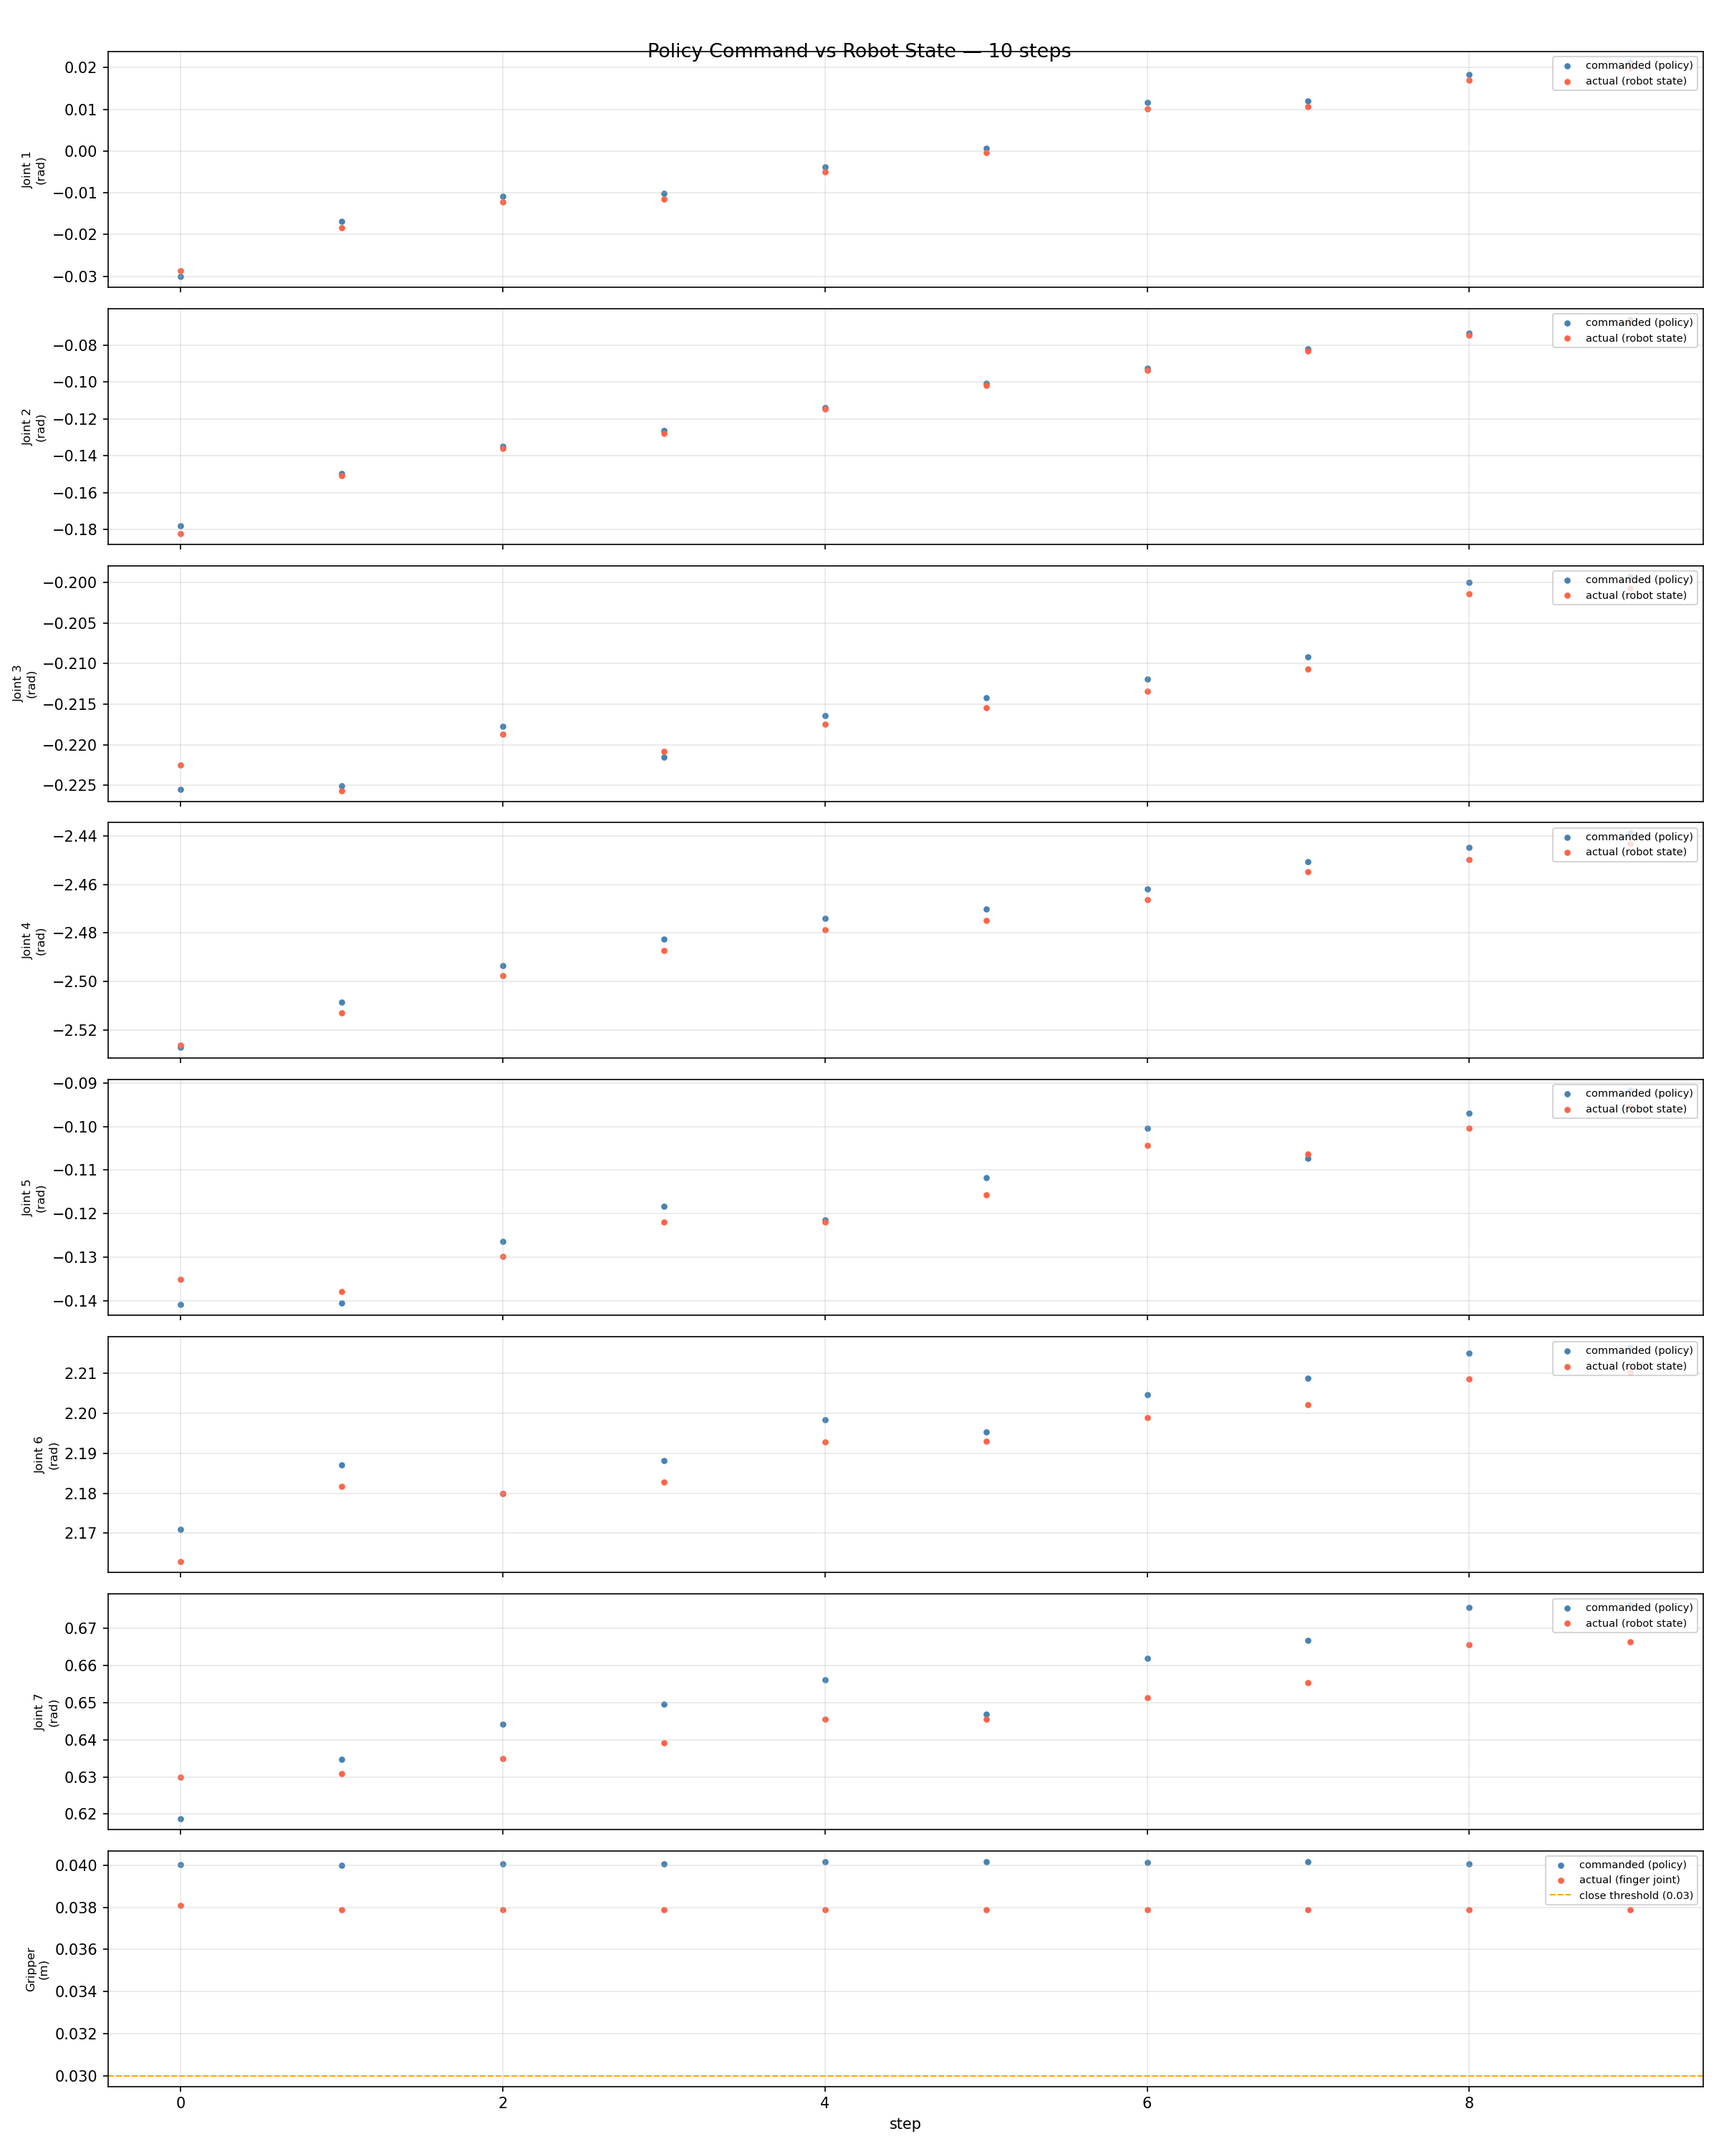
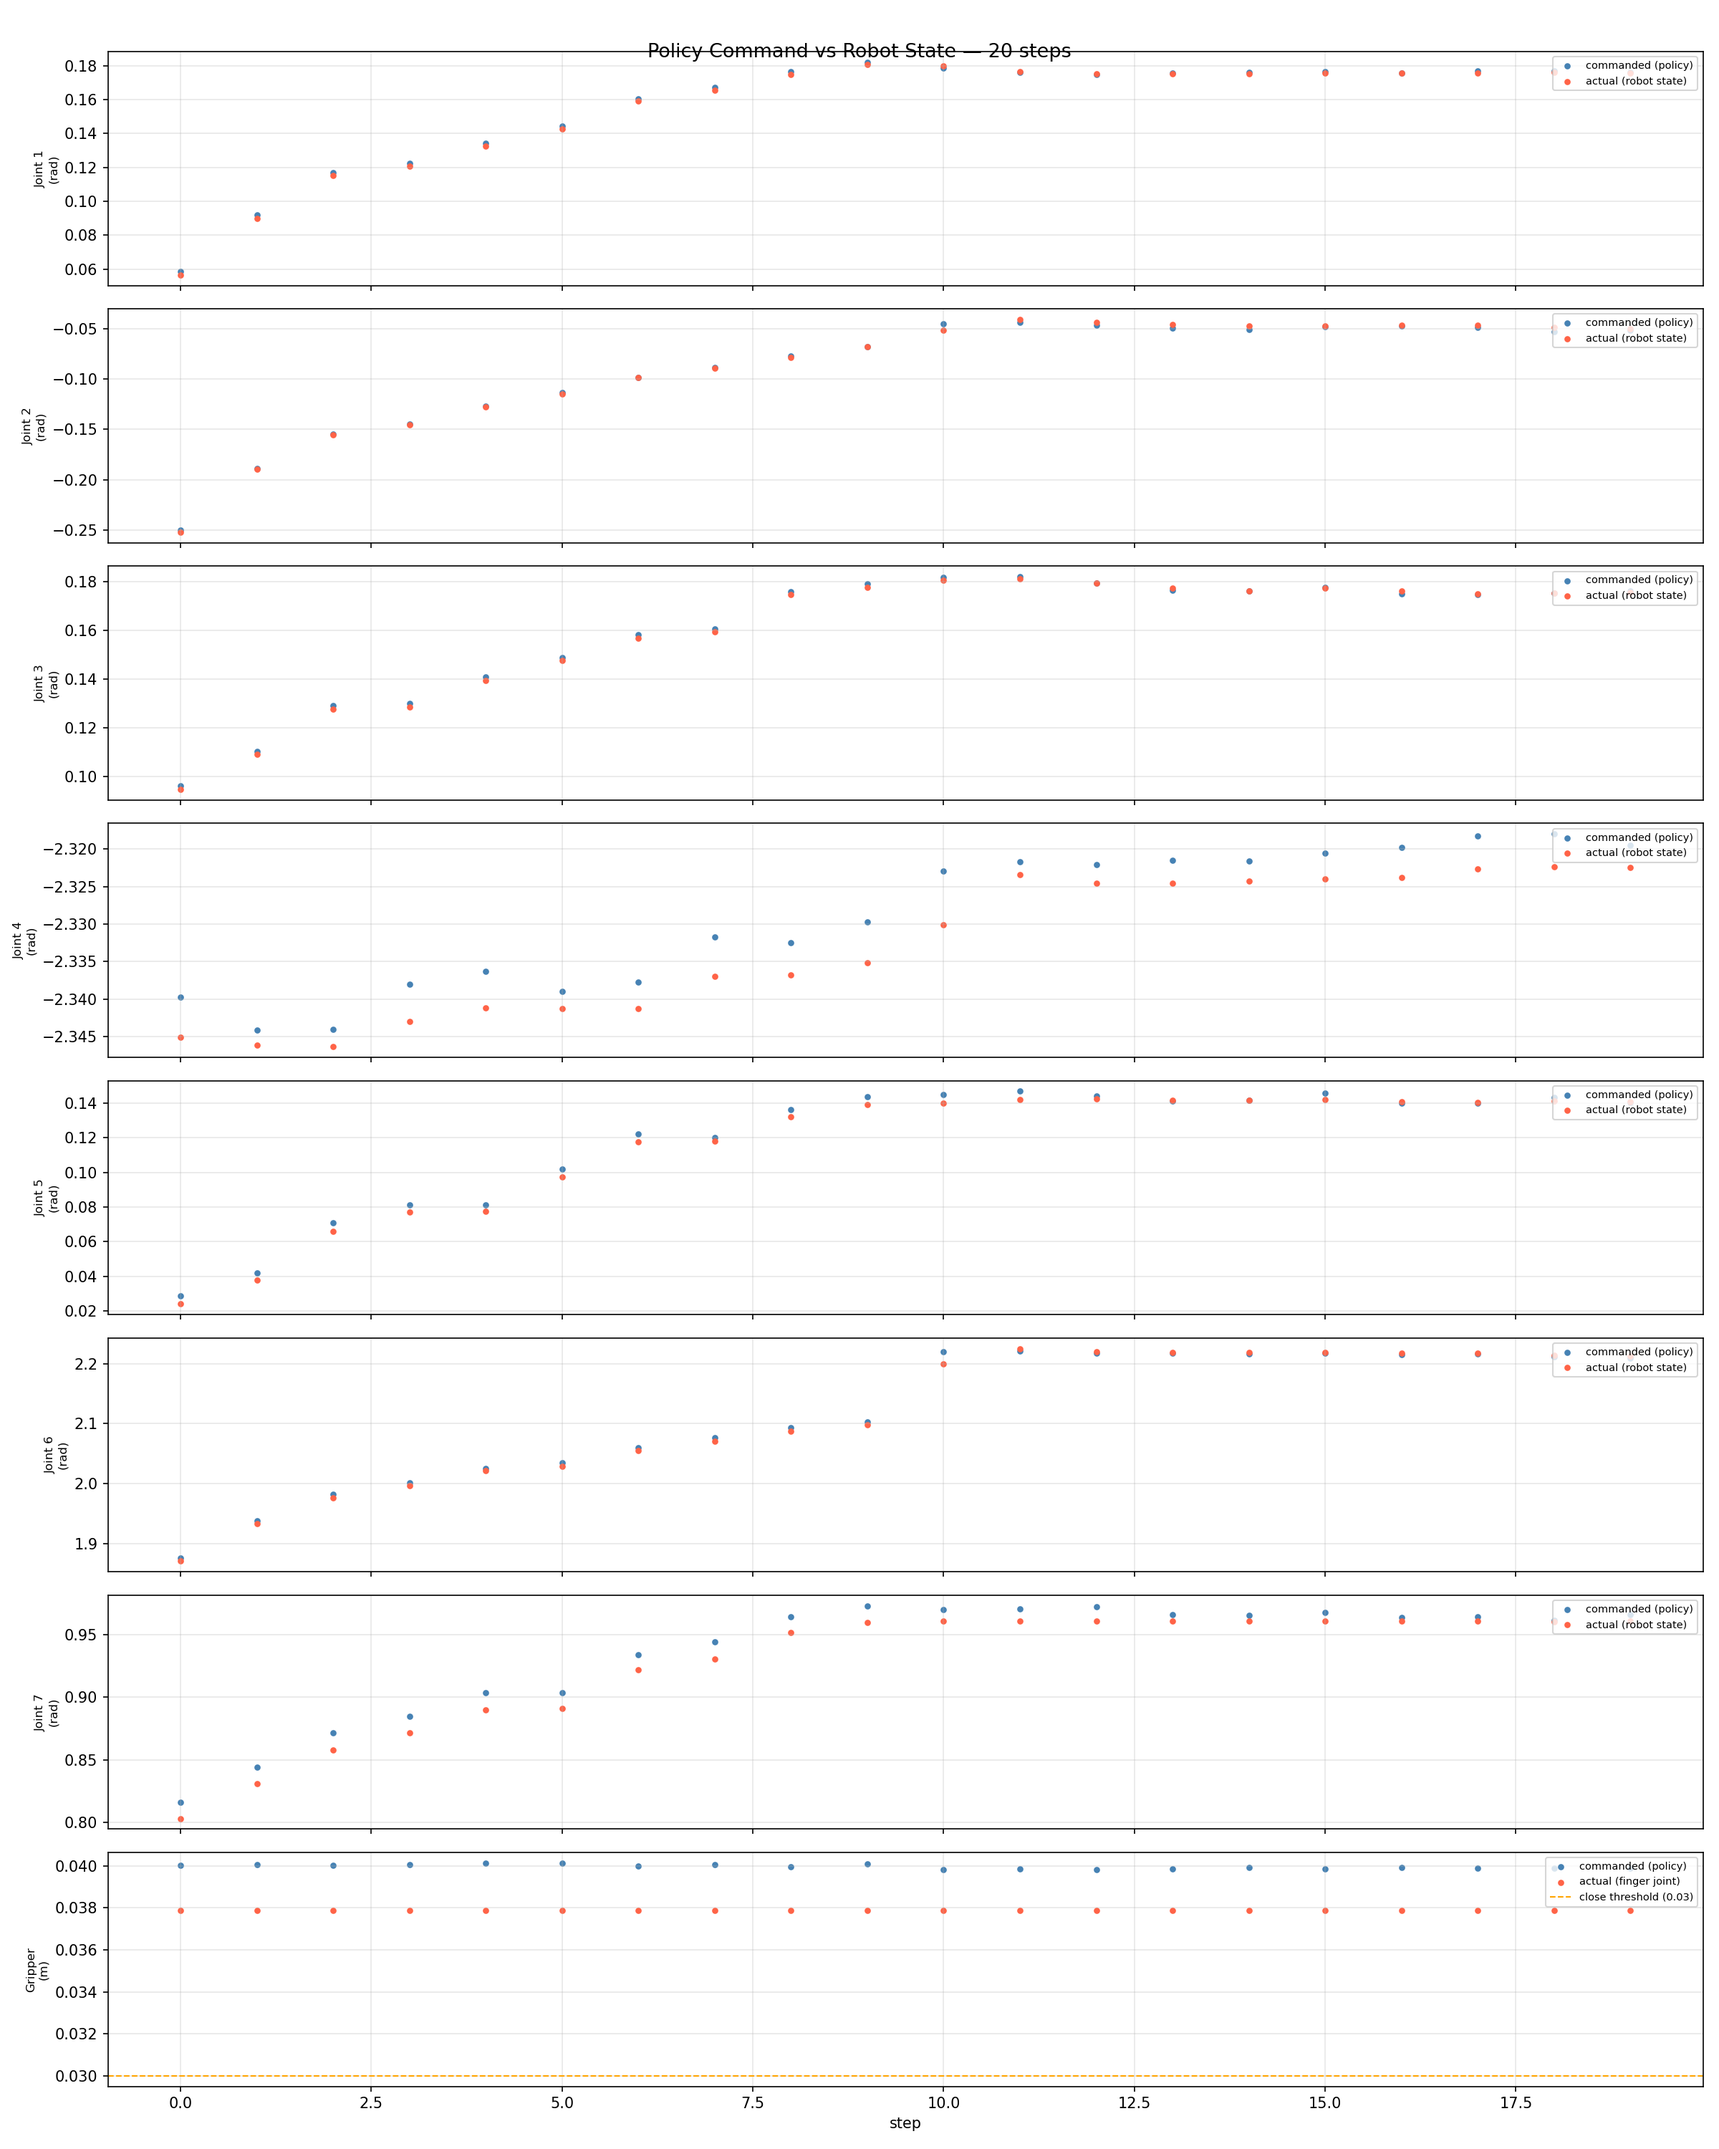
reverted the two step speed approac

diff --git a/franka_openpi/action_executor.py b/franka_openpi/action_executor.py
@@ -26,8 +26,6 @@ STEP_DURATION = 1.0  # seconds per policy step (30 Hz = saifahmad123/Teleop fps)
 # Actions are delta-based internally (re-integrated by AbsoluteActions), so consecutive
 # targets are spaced assuming the 30 Hz training rate. Executing slower (e.g. 20 Hz)
 # stretches every motion to >1x its trained duration and drifts the re-query cadence.
-STEP_DURATION_FIRST = 2.0  # first chunk of an episode: slow, safe initial approach
-STEP_DURATION_REST = 0.1   # subsequent chunks: fast
 
 # ── Gripper mode ──────────────────────────────────────────────────────────────
 # "binary"     — threshold-based open/close transitions (existing behaviour)
@@ -115,14 +113,12 @@ class ActionExecutor:
         except asyncio.TimeoutError:
             pass
 
-    async def _run_gripper_continuous(
-        self, finger_positions: list[float], step_duration: float = STEP_DURATION
-    ):
+    async def _run_gripper_continuous(self, finger_positions: list[float]):
         """Send policy gripper positions step-by-step, cancelling the previous each time."""
         loop = asyncio.get_event_loop()
         t0 = loop.time()
         for i, finger_pos in enumerate(finger_positions):
-            wait = i * step_duration - (loop.time() - t0)
+            wait = i * STEP_DURATION - (loop.time() - t0)
             if wait > 0:
                 await asyncio.sleep(wait)
             await self._send_gripper_width(finger_pos)
@@ -164,9 +160,7 @@ class ActionExecutor:
 
     # ── main execution ────────────────────────────────────────────────────────
 
-    async def execute_chunk(
-        self, chunk: np.ndarray, step_duration: float = STEP_DURATION
-    ) -> bool:
+    async def execute_chunk(self, chunk: np.ndarray) -> bool:
         """Send the full chunk as one FollowJointTrajectory goal and await completion."""
         goal = FollowJointTrajectory.Goal()
         goal.trajectory.joint_names = list(JOINT_NAMES)
@@ -174,7 +168,7 @@ class ActionExecutor:
         for i, action in enumerate(chunk):
             pt = JointTrajectoryPoint()
             pt.positions = [float(p) for p in action[:7]]
-            t = (i + 1) * step_duration
+            t = (i + 1) * STEP_DURATION
             pt.time_from_start = Duration(sec=int(t), nanosec=int((t % 1) * 1e9))
             goal.trajectory.points.append(pt)
 
@@ -197,7 +191,7 @@ class ActionExecutor:
             if self._gripper_task and not self._gripper_task.done():
                 self._gripper_task.cancel()
             self._gripper_task = asyncio.create_task(
-                self._run_gripper_continuous(finger_positions, step_duration)
+                self._run_gripper_continuous(finger_positions)
             )
         else:
             # binary: detect open/close transitions and fire at transition points
@@ -206,7 +200,7 @@ class ActionExecutor:
             for i, action in enumerate(chunk):
                 gripper_open = float(action[7]) >= GRIPPER_CLOSE_THRESHOLD
                 if gripper_open != last_state:
-                    transitions.append((i * step_duration, gripper_open))
+                    transitions.append((i * STEP_DURATION, gripper_open))
                     last_state = gripper_open
             if transitions:
                 self._gripper_is_open = last_state

diff --git a/franka_openpi/openpi_client_node.py b/franka_openpi/openpi_client_node.py
@@ -17,12 +17,7 @@ from rclpy.executors import MultiThreadedExecutor
 from rclpy.node import Node
 from sensor_msgs.msg import Image, JointState
 
-from franka_openpi.action_executor import (
-    ActionExecutor,
-    STEP_DURATION,
-    STEP_DURATION_FIRST,
-    STEP_DURATION_REST,
-)
+from franka_openpi.action_executor import ActionExecutor, STEP_DURATION
 
 
 class _NoPingPolicy(websocket_client_policy.WebsocketClientPolicy):
@@ -253,11 +248,11 @@ class OpenPIClientNode(Node):
         except Exception as e:
             print(f"[OpenPI] Plot failed: {e}")
 
-    async def _sample_actual(self, n: int, step_duration: float = STEP_DURATION) -> list:
+    async def _sample_actual(self, n: int) -> list:
         """Sample actual joint state once per policy step during chunk execution."""
         samples = []
         for _ in range(n):
-            await asyncio.sleep(step_duration)
+            await asyncio.sleep(STEP_DURATION)
             samples.append(self._raw_joints[:8].copy())
         return samples
 
@@ -322,12 +317,9 @@ class OpenPIClientNode(Node):
                 for action in chunk:
                     self.commanded_log.append(action[:8].copy())
 
-                # 2. Execute chunk and sample actual state in parallel.
-                # First chunk of the episode runs slow (safe approach), rest run fast.
-                sd = STEP_DURATION_FIRST if step == 0 else STEP_DURATION_REST
-                print(f"  step_duration={sd}s")
-                exec_task = asyncio.create_task(self.action_executor.execute_chunk(chunk, sd))
-                actual_samples = await self._sample_actual(n, sd)
+                # 2. Execute chunk and sample actual state in parallel at STEP_DURATION rate
+                exec_task = asyncio.create_task(self.action_executor.execute_chunk(chunk))
+                actual_samples = await self._sample_actual(n)
                 ok = await exec_task
 
                 for s in actual_samples:
